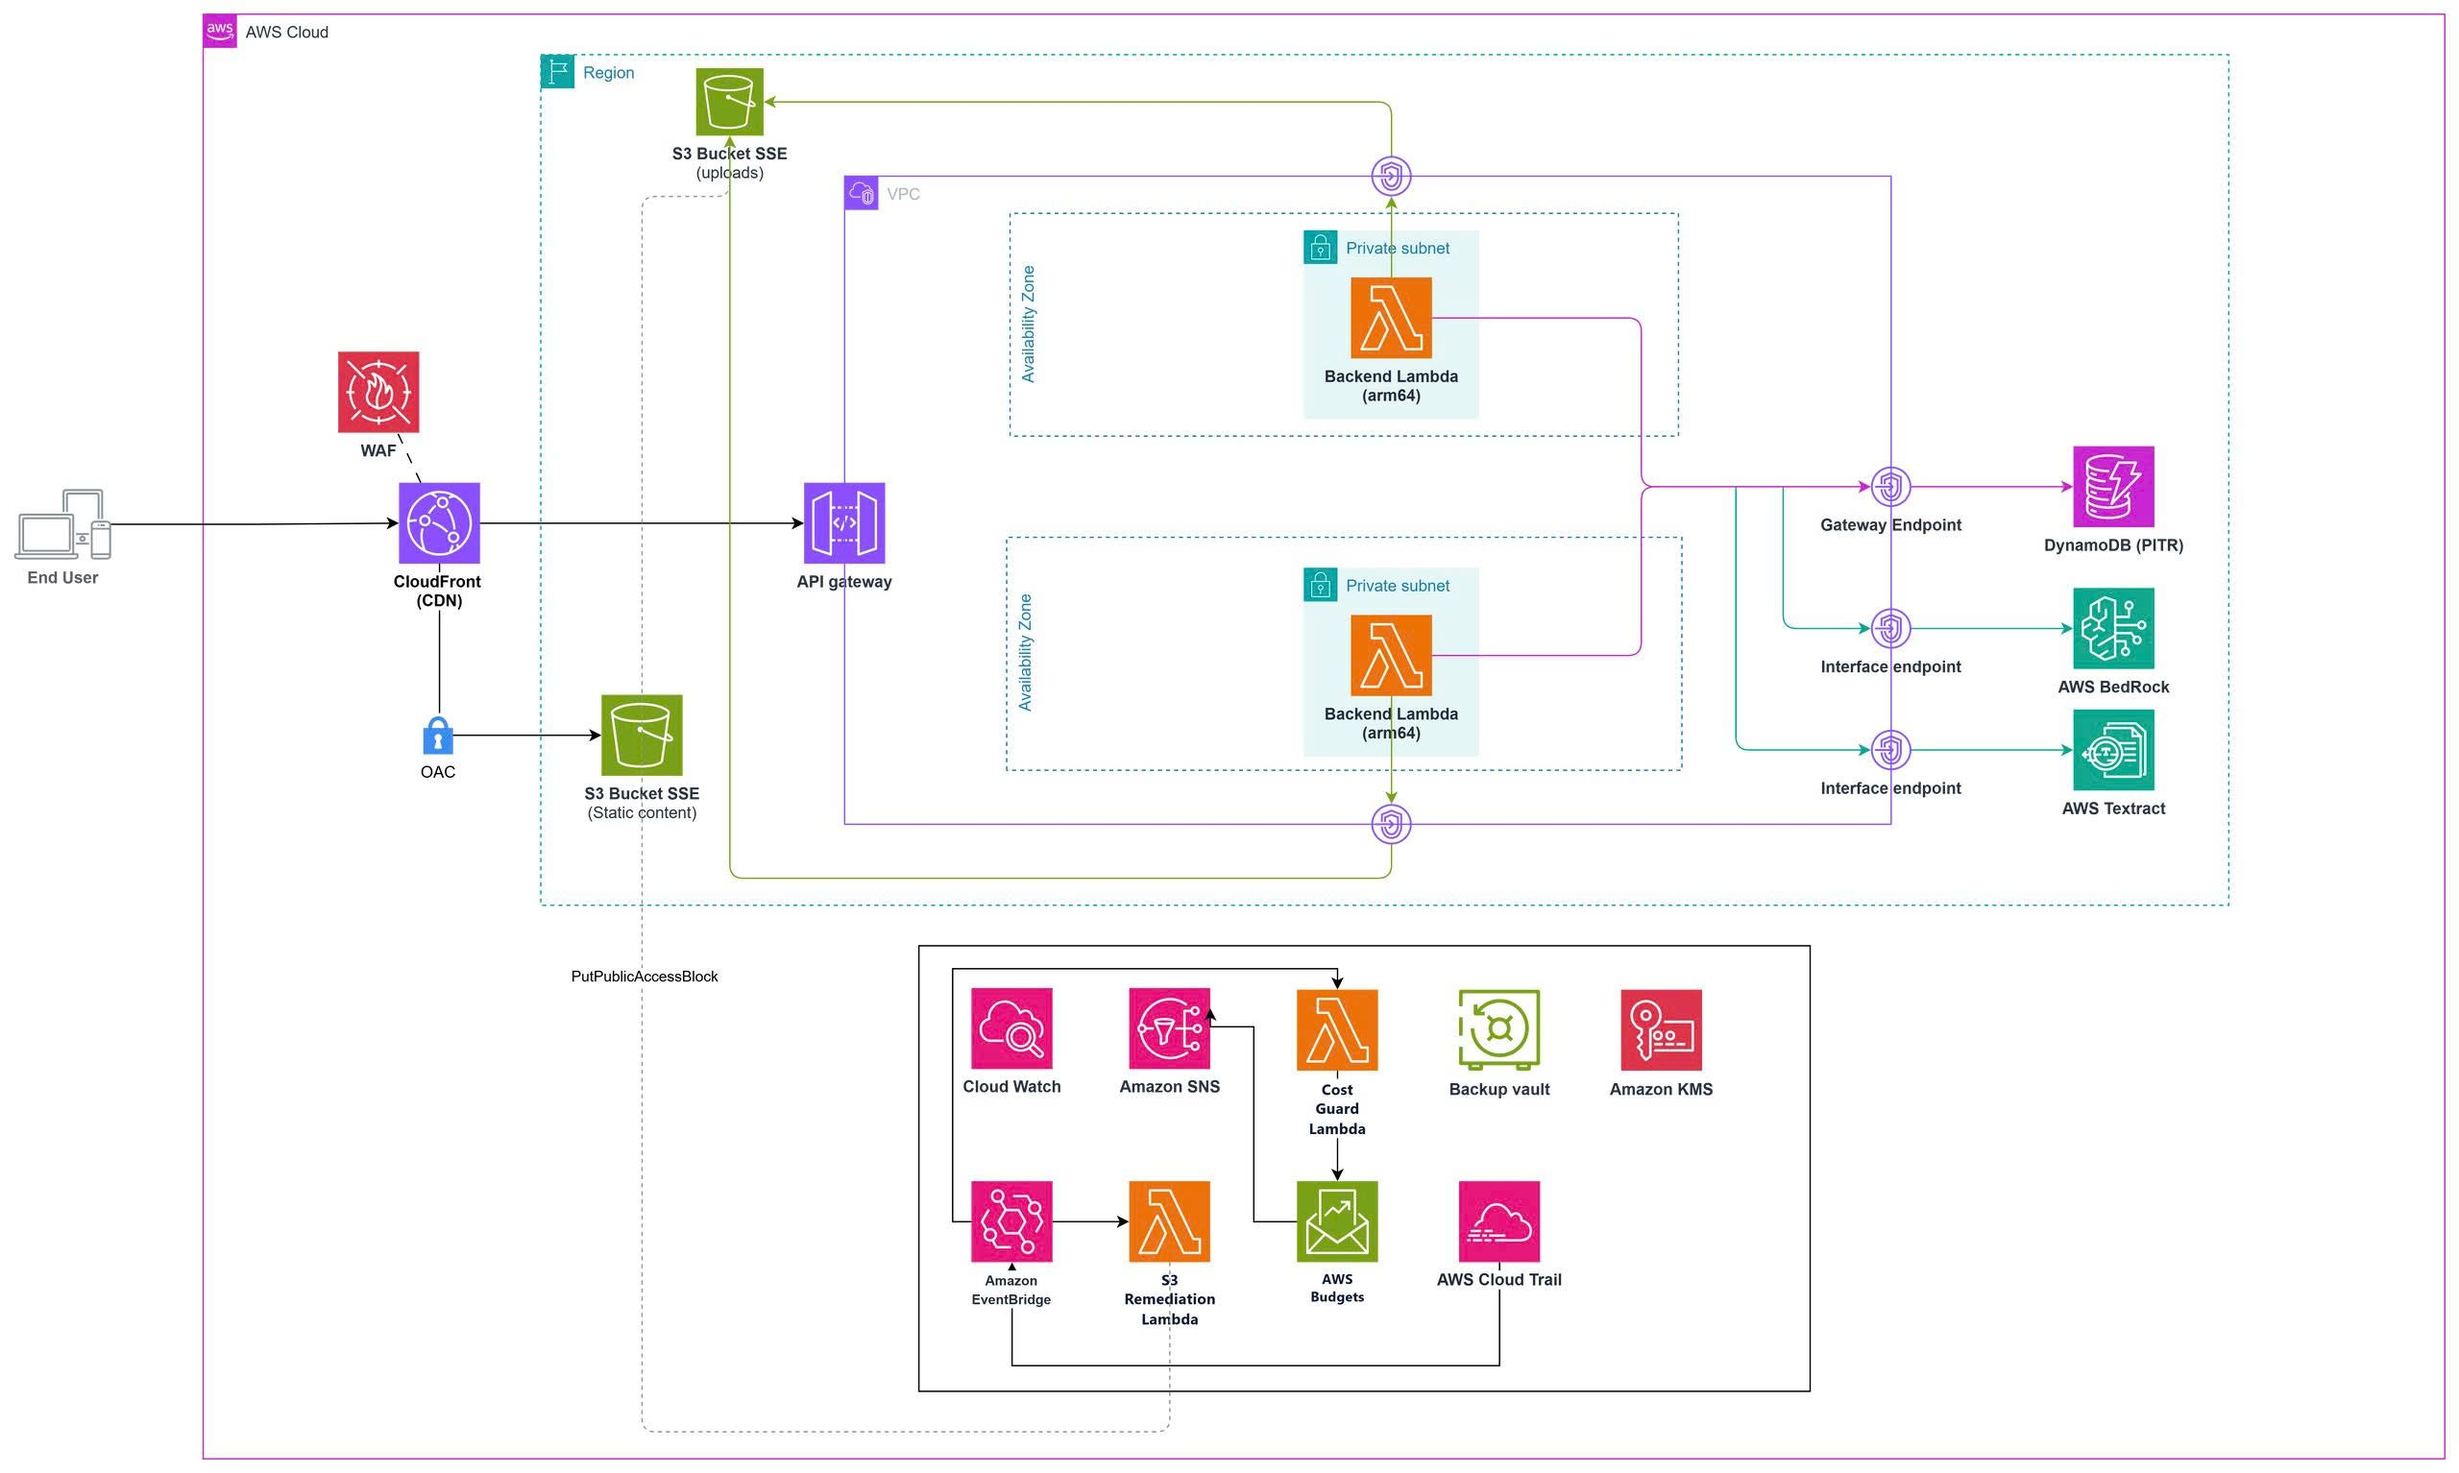
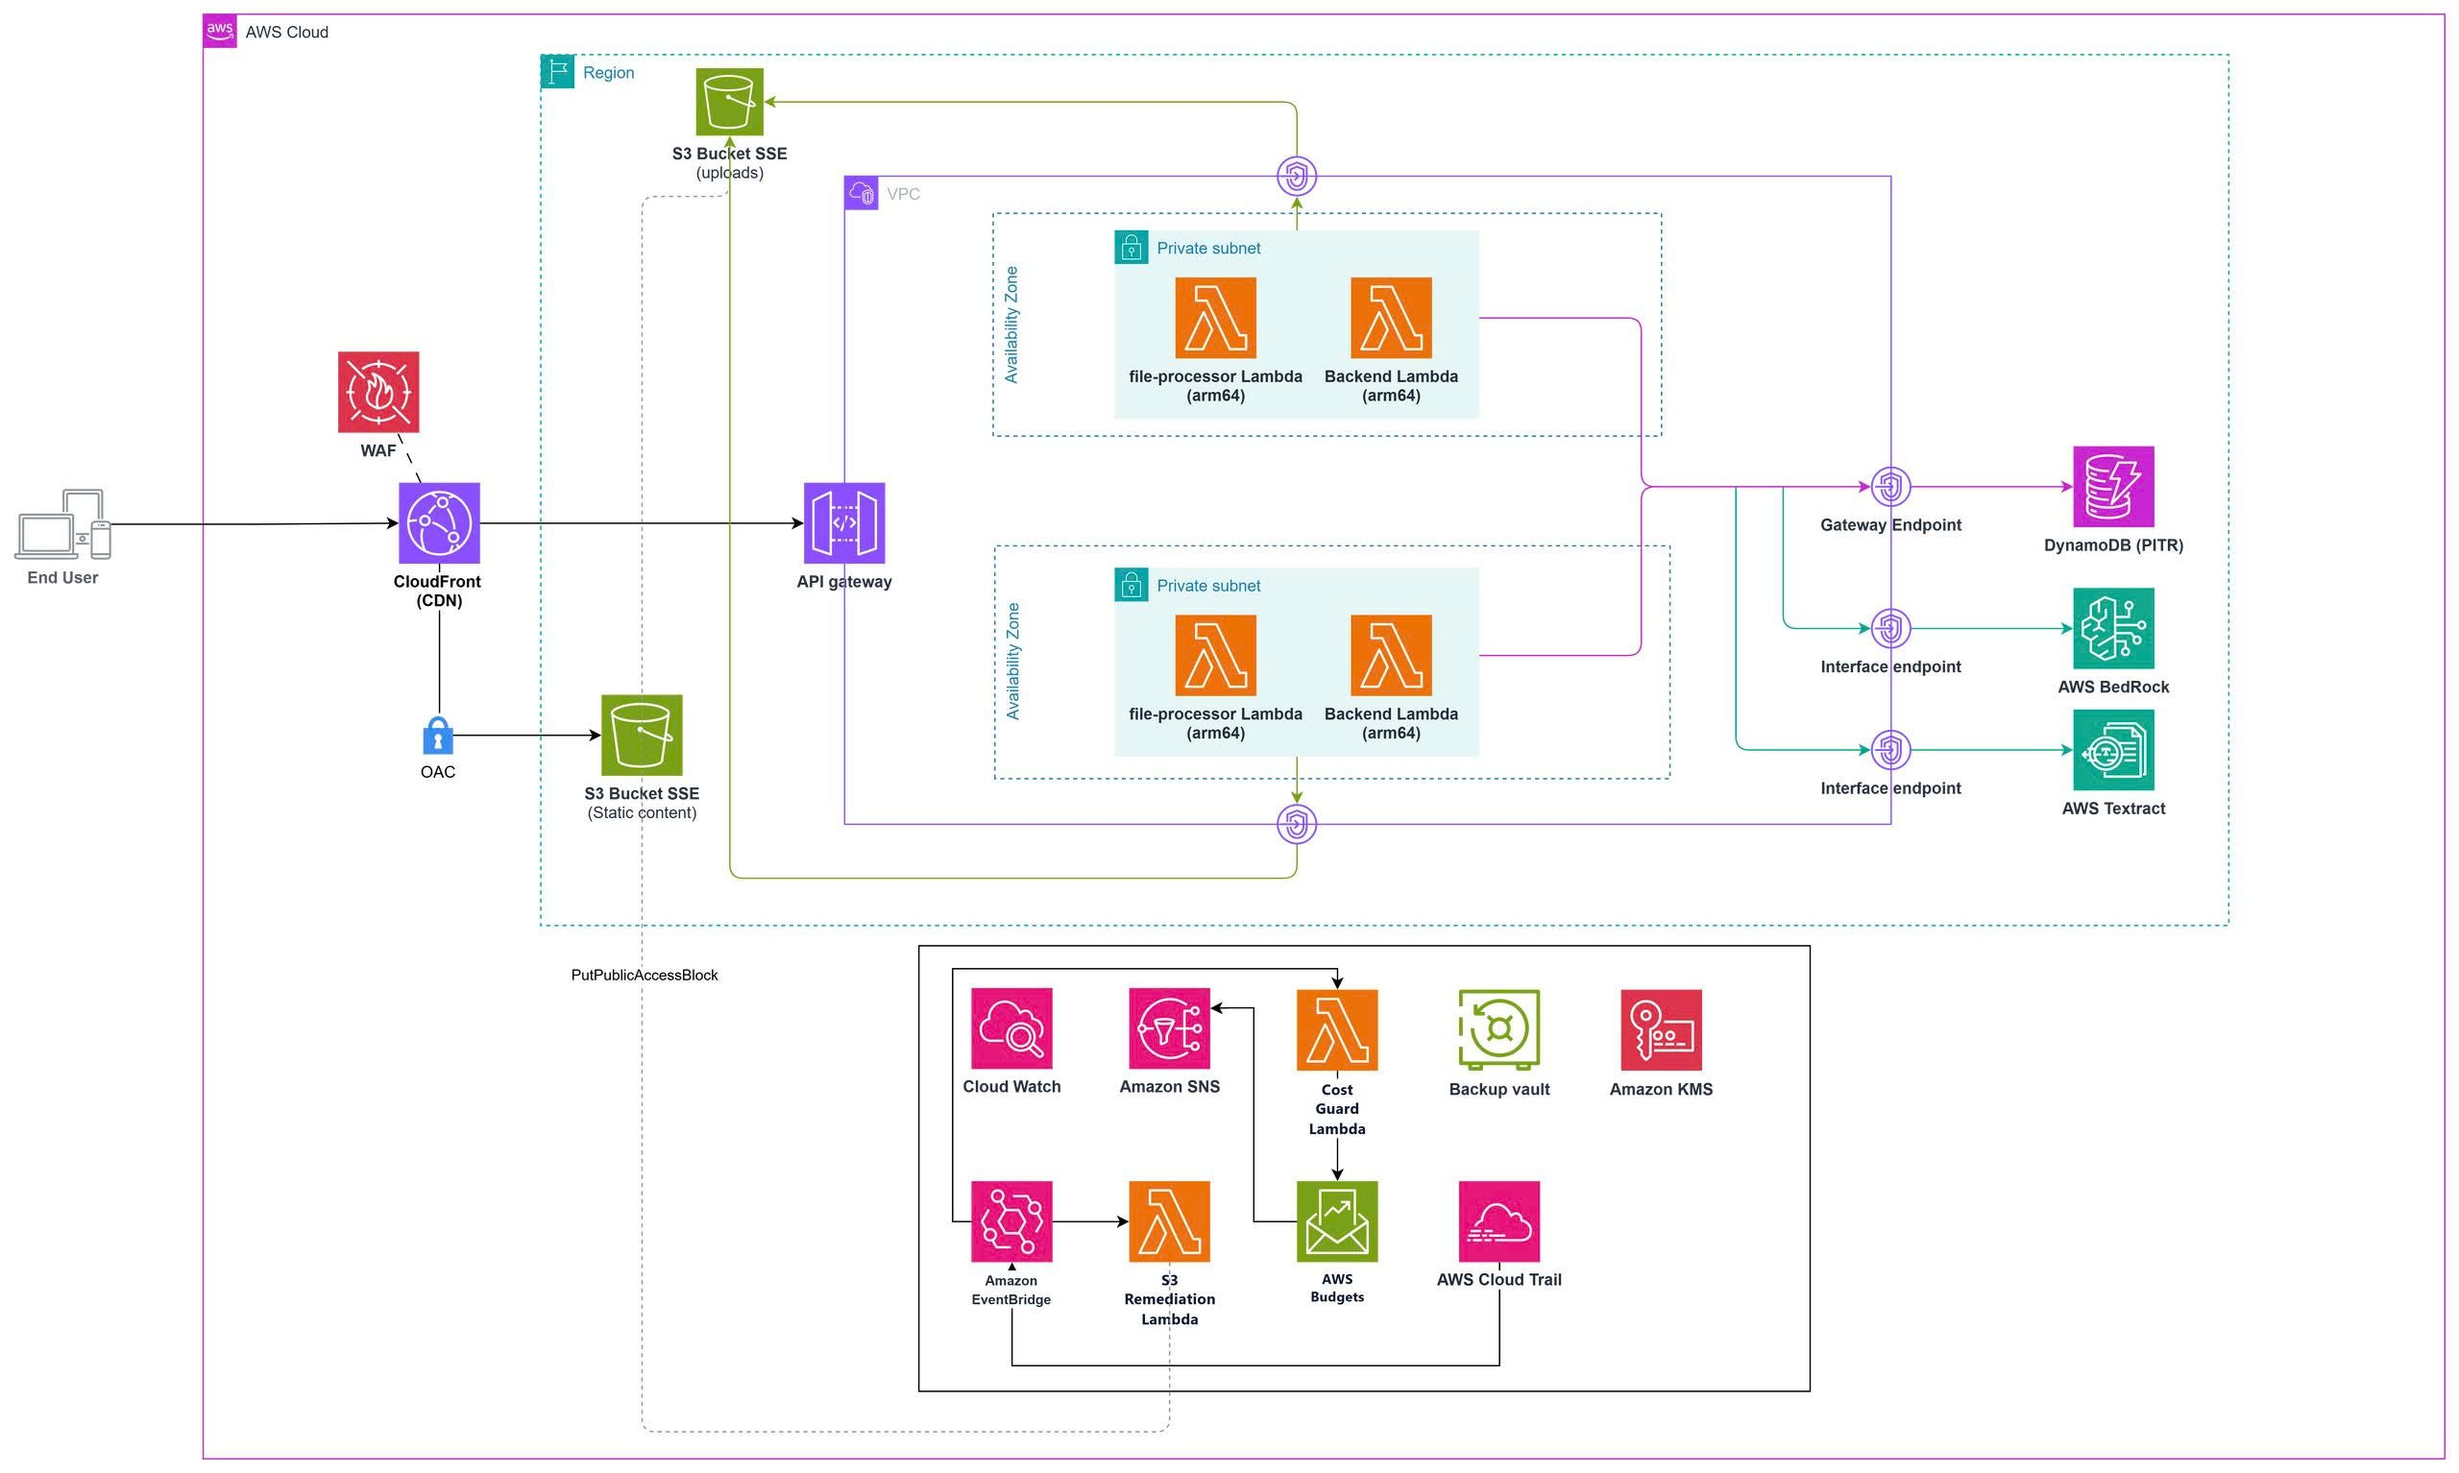
update: update evidence pack

diff --git a/docs/W7_slides.html b/docs/W7_slides.html
@@ -330,27 +330,6 @@
         background: rgba(255, 153, 0, 0.2);
         transform: scale(1.05);
       }
-      .presenter {
-        position: absolute;
-        left: 78px;
-        bottom: 38px;
-        display: flex;
-        align-items: center;
-        gap: 8px;
-        z-index: 10;
-        font-size: 13px;
-        font-weight: 600;
-        color: #90caf9;
-        background: rgba(66, 165, 245, 0.08);
-        border: 1px solid rgba(66, 165, 245, 0.25);
-        padding: 6px 14px;
-        border-radius: 999px;
-        backdrop-filter: blur(4px);
-      }
-      .presenter i {
-        color: #42a5f5;
-        font-size: 12px;
-      }
       @media print {
         body {
           background: white;
@@ -1609,7 +1588,7 @@
               >
                 <li>
                   <b>Monthly Budget:</b>
-                  <span class="metric" style="font-size: 28px">$10</span>
+                  <span class="metric" style="font-size: 28px">$100</span>
                 </li>
                 <li><b>Alarm:</b> 80% triggers SNS email notification</li>
                 <li>
@@ -1916,60 +1895,6 @@
       const slides = document.querySelectorAll(".slide-container");
       const totalSlides = slides.length;
 
-      // Presenter name per slide (0-indexed)
-      const presenters = [
-        "Trần Phúc Tiến", // 0  Cover
-        "Trần Phúc Tiến", // 1  Team
-        "Trần Phúc Tiến", // 2  Backend Task Assignment
-        "Trần Phúc Tiến", // 3  Domain & Use Case
-        "Võ Hồng Đức", // 4  Architecture (Diagram Design)
-        "Trần Phúc Tiến", // 5  Processing Flow (Async S3 Processing)
-        "Trần Phúc Tiến", // 6  Trade-offs
-        "Bùi Thị Thùy Trang", // 7  VPC & Network (Terraform IaC)
-        "Bùi Thị Thùy Trang", // 8  VPC Evidence
-        "Bùi Thị Thùy Trang", // 9  VPC Flow Logs
-        "Bùi Thị Thùy Trang", // 10 IAM & Security (Terraform IAM Roles)
-        "Bùi Thị Thùy Trang", // 11 IAM Evidence
-        "Bùi Thị Thùy Trang", // 12 IAM Evidence 2
-        "Bùi Thị Thùy Trang", // 13 KMS (KMS Encryption)
-        "Bùi Thị Thùy Trang", // 14 KMS Evidence
-        "Nguyễn Ngọc Giao", // 15 Lambda Config (FastAPI Routers, Mangum)
-        "Nguyễn Ngọc Giao", // 16 Lambda Evidence
-        "Bùi Thị Thùy Trang", // 17 API Gateway (Terraform IaC)
-        "Bùi Thị Thùy Trang", // 18 API Gateway Evidence
-        "Bùi Thị Thùy Trang", // 19 CloudFront & S3 (Terraform IaC)
-        "Bùi Thị Thùy Trang", // 20 CloudFront Evidence
-        "Nguyễn Tấn Huy", // 21 DynamoDB (Schema Design PK/SK/GSI)
-        "Nguyễn Tấn Huy", // 22 DynamoDB Evidence
-        "Nguyễn Tấn Huy", // 23 DynamoDB Evidence 2
-        "Trần Quốc Kiệt", // 24 Bedrock & Textract (Converse API, Tool-Calling)
-        "Võ Hồng Đức", // 25 EventBridge Self-Healing (S3 Remediation Lambda)
-        "Võ Hồng Đức", // 26 EventBridge Evidence
-        "Nguyễn Quách Khang Ninh", // 27 Budget & Alarms (CloudWatch, AWS Budgets)
-        "Nguyễn Quách Khang Ninh", // 28 Budget Evidence
-        "Nguyễn Quách Khang Ninh", // 29 Cost Breakdown (Cost Guard)
-        "Nguyễn Quách Khang Ninh", // 30 Cost Optimization
-        "Nguyễn Tấn Huy", // 31 Backup & Recovery (Backup Plan)
-        "Trần Phúc Tiến", // 32 Closing
-      ];
-
-      function updateSlides() {
-        slides.forEach((slide, index) => {
-          // Slide number
-          let noEl = slide.querySelector(".slide-no");
-          if (noEl)
-            noEl.innerText =
-              String(index + 1).padStart(2, "0") + " / " + totalSlides;
-
-          // // Presenter tag
-          // let presEl = slide.querySelector('.presenter');
-          // if (!presEl) {
-          //   presEl = document.createElement('div');
-          //   presEl.className = 'presenter';
-          //   slide.appendChild(presEl);
-          // }
-          // const name = presenters[index] || '';
-          // presEl.innerHTML = '<i class="fas fa-microphone"></i> ' + name;
 
           if (document.body.classList.contains("presentation-mode")) {
             if (index === currentSlide) {

diff --git a/docs/W7_evidence.md b/docs/W7_evidence.md
@@ -81,15 +81,17 @@ sequenceDiagram
   2. *DynamoDB vs RDS:* Chọn DynamoDB để scale‑to‑zero tiết kiệm chi phí, đổi lại không hỗ trợ query quan hệ phức tạp.
   3. *No NAT Gateway vs NAT Gateway:* Đặt VPC Interface Endpoints cho AI (Bedrock & Textract), tiết kiệm $32/tháng tiền NAT Gateway, đổi lại chỉ có thể gọi các service hỗ trợ PrivateLink.
 
+- **Handle upload pdf flow:**
+![alt text](images/flow_lambda.png)
+
 ---
 
 ## 4. Cost Evidence & Drivers
-> [!NOTE]
-> Chụp 3 ảnh màn hình và lưu vào `docs/images/` rồi thay link tương ứng dưới đây.
 
-- **Ảnh cuối Day 1 EOD:** `[Chèn ảnh Cost Explorer Day 1]`
-- **Ảnh cuối Day 2 EOD:** `[Chèn ảnh Cost Explorer Day 2]`
-- **Ảnh sáng Demo Day:** `[Chèn ảnh Cost Explorer Demo Day]`
+- **Cost:** 
+
+![alt text](images/cost.png)
+
 - **Top 3 Cost Drivers:**
   1. **Amazon Bedrock** (Token inference)
   2. **KMS** (Phí API mã hoá/giải mã)
